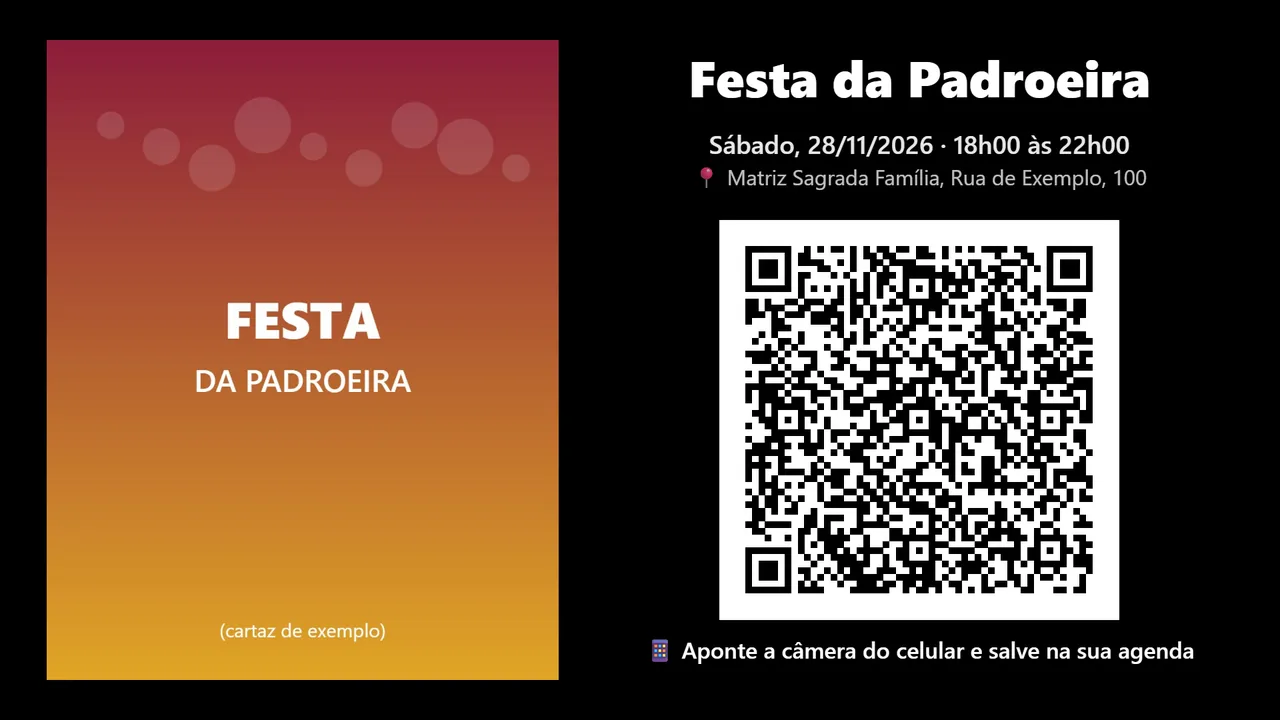
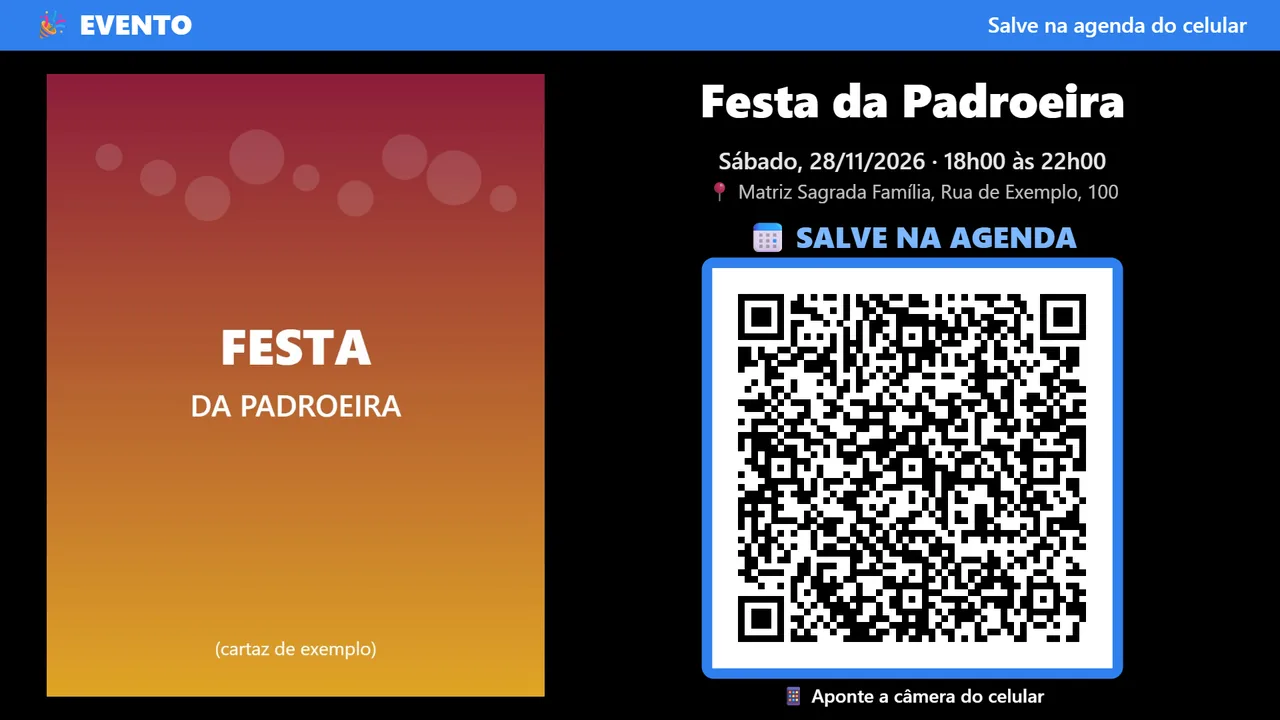
Nova versão do site

diff --git a/index.html b/index.html
@@ -48,23 +48,26 @@
       <div class="cartao"><h3>📄 Roteiro a partir do folheto</h3><p>Lê o folheto da Missa (PDF, Word ou texto) — ou baixa o da sua arquidiocese — e monta o roteiro inteiro, com as falas do padre e do povo.</p></div>
       <div class="cartao"><h3>🎵 Cantos com cifras</h3><p>Cantos por momento da Missa, refrão repetido sozinho, cantado ou rezado (Glória, Sequências, Ladainhas) e cifras para os músicos. No roteiro, 🔎 procura o canto pelo título, autor ou um pedaço da letra.</p></div>
       <div class="cartao"><h3>🎼 Partituras para os músicos</h3><p>A partitura de cada canto no tablet do músico, com a pauta do telão marcada. Do PDF de partituras do folheto do domingo, o programa separa as músicas e liga cada uma ao canto do roteiro.</p></div>
-      <div class="cartao"><h3>📖 Bíblia e liturgia</h3><p>Bíblia católica completa, com os 73 livros, já incluída; calendário litúrgico com santos e cor do tempo; as partes fixas da Missa com P. e T.; o nome do Papa e do Bispo no lugar do "N.".</p></div>
+      <div class="cartao"><h3>📖 Bíblia e liturgia</h3><p>Bíblia católica completa, com os 73 livros, já incluída; calendário litúrgico com santos e cor do tempo; as partes fixas da Missa com P. e T.; o nome do Papa e do Bispo no lugar do "N.". Nas Missas de semana, a Liturgia do dia monta o roteiro com as leituras e as orações próprias.</p></div>
       <div class="cartao"><h3>📱 Controle pelo celular</h3><p>Leia o QR code e passe os slides andando pela igreja. Os músicos veem a cifra ou a partitura acompanhando o telão, no tom do instrumento. E um tablet ou TV com navegador vira uma 📺 segunda tela, sem cabo.</p></div>
-      <div class="cartao"><h3>⏯ Feito para a hora da Missa</h3><p>Congelar o telão enquanto prepara a próxima parte, corrigir um slide sem projetar, Pix que entra sozinho no ofertório, aviso de carro ou criança, e atalhos de teclado para tudo.</p></div>
+      <div class="cartao"><h3>⏯ Feito para a hora da Missa</h3><p>Congelar o telão enquanto prepara a próxima parte, corrigir um slide sem projetar, Pix que entra sozinho no ofertório, aviso de carro ou criança, ↺ recomeçar o canto com um clique, momento de silêncio depois da comunhão, banner ou cartaz no roteiro, e atalhos de teclado para tudo.</p></div>
       <div class="cartao"><h3>✨ Slides automáticos</h3><p>Para cada slide, o programa calcula a letra, as linhas e os espaços para ocupar bem o telão — no máximo 6 linhas, divididas no fim da frase. Enquanto você edita, a prévia mostra o slide como vai ficar.</p></div>
       <div class="cartao"><h3>📿 Terço no telão</h3><p>O terço inteiro pronto, com os mistérios do dia: Nossa Senhora num canto e o terço desenhado no outro, preenchendo conta por conta. E versões com outros textos, como o terço pelos Filhos ou o Vocacional.</p></div>
       <div class="cartao"><h3>🎨 Telão do seu jeito</h3><p>Temas (inclusive pela cor do tempo litúrgico), perfis para cada operador, brasão e padroeiro nos cantos da tela.</p></div>
       <div class="cartao"><h3>📷 Câmeras e joysticks</h3><p>Câmera ao vivo no telão e câmeras PTZ com posições prontas — pelo computador, pelo celular ou por um joystick USB.</p></div>
       <div class="cartao"><h3>📡 Transmissão</h3><p>Faixa com as letras para o OBS (NDI), por cima da câmera da transmissão — inclusive o QR code do Pix da paróquia.</p></div>
-      <div class="cartao"><h3>☁ Vários computadores</h3><p>Opcionalmente, guarda tudo no Google Drive da própria paróquia para usar na Matriz e nas capelas.</p></div>
-      <div class="cartao"><h3>🎉 Eventos da paróquia</h3><p>Festas, retiros e cursos com cartaz e QR code, que põe o evento na agenda do celular. "Apresentar eventos" passa os cartazes sozinho, com música, e pode se repetir em grupo com um vídeo antes da Missa.</p></div>
+      <div class="cartao"><h3>☁ Vários computadores</h3><p>Opcionalmente, guarda tudo no Google Drive da própria paróquia para usar na Matriz e nas capelas, inclusive os vídeos e áudios: o que falta num computador aparece para baixar, com prévia sem baixar. O botão ☁ Atualizar busca na hora o que os outros mudaram.</p></div>
+      <div class="cartao"><h3>🎉 Eventos da paróquia</h3><p>Festas, retiros e cursos com cartaz e QR code, que põe o evento na agenda do celular (novena: um compromisso por dia). "Apresentar eventos" passa os cartazes sozinho, com música; com "Todos os eventos por vir", o novo entra e o que passou sai.</p></div>
+      <div class="cartao"><h3>💝 Campanhas de arrecadação</h3><p>A arte da campanha, o QR code do Pix dela e a meta em barra, termômetro, círculo, tijolos ou coração. Vêm da Secretaria MiguelAngelus pela nuvem; a pausada ou encerrada sai sozinha, e a encerrada pode deixar um "Muito obrigado!".</p></div>
+      <div class="cartao"><h3>📢 Avisos com eventos e campanhas</h3><p>Os avisos de cada Missa entram sozinhos no roteiro. O aviso de um evento ou de uma campanha vira o slide pronto, com o QR, na mesma ordem da folha que o leitor tem no ambão: é só ir passando.</p></div>
+      <div class="cartao"><h3>🎬 Antes da Missa</h3><p>Um vídeo de boas-vindas para cada igreja abre sozinho os roteiros novos. O vídeo, os eventos e as campanhas podem se repetir em grupo até a Missa começar, e um clique põe a apresentação em todos os roteiros do dia ou da semana.</p></div>
     </div>
   </section>
 
   <section class="texto centro">
     <h2 style="margin-top:0">🗂 Novo: Secretaria MiguelAngelus</h2>
     <p>Um programa gratuito para a <b>secretaria paroquial</b>: agenda, avisos, marcações de batizados e casamentos, intenções de
-      Missa e eventos com QR code. Os avisos e os eventos chegam sozinhos ao telão; os dados das pessoas ficam na secretaria.</p>
+      Missa, eventos com QR code e campanhas de arrecadação. Os avisos, os eventos e as campanhas chegam sozinhos ao telão; os dados das pessoas ficam na secretaria.</p>
     <div class="botoes" style="justify-content:center">
       <a class="baixar" href="secretaria.html">Conhecer a Secretaria</a>
     </div>
@@ -86,6 +89,10 @@
     <div class="galeria">
       <figure><img src="img/ajustes_joystick.webp" alt="Configuração do joystick" loading="lazy"><figcaption>🎮 Joystick para as câmeras PTZ: o botão apertado acende no desenho.</figcaption></figure>
       <figure><img src="img/agenda.webp" alt="Agenda da paróquia" loading="lazy"><figcaption>📅 Agenda: as celebrações da semana viram roteiros prontos.</figcaption></figure>
+    </div>
+    <div class="galeria">
+      <figure><img src="img/sec_evento.webp" alt="Slide de um evento com o cartaz e o QR code da agenda" loading="lazy"><figcaption>🎉 Evento: faixa azul e o QR que salva na agenda do celular.</figcaption></figure>
+      <figure><img src="img/telao_campanha.webp" alt="Slide de uma campanha com a arte, o termômetro da meta e o QR code do Pix" loading="lazy"><figcaption>💝 Campanha: faixa dourada, a meta e o QR do Pix — os dois não se confundem.</figcaption></figure>
     </div>
   </section>
 

diff --git a/secretaria.html b/secretaria.html
@@ -27,7 +27,7 @@
     <div>
       <h1>Secretaria MiguelAngelus</h1>
       <p>Um programa <b>gratuito</b> para a <b>secretaria paroquial</b>: a agenda das celebrações, os avisos, as marcações de
-        batizados e casamentos, as intenções de Missa e os eventos da paróquia. O que é para o telão chega sozinho ao
+        batizados e casamentos, as intenções de Missa, os eventos e as campanhas de arrecadação da paróquia. O que é para o telão chega sozinho ao
         MiguelAngelus da projeção, pela nuvem da própria paróquia.</p>
       <div class="botoes">
         <a class="baixar" href="https://github.com/dobylucky78-droid/secretaria-miguelangelus/releases/latest/download/Instalar-Secretaria-MiguelAngelus.exe">⬇ Baixar a Secretaria para Windows</a>
@@ -44,10 +44,11 @@
     <h2 class="secao">O que ela faz</h2>
     <div class="cartoes">
       <div class="cartao"><h3>📅 Agenda da paróquia</h3><p>A matriz e as capelas, as celebrações de toda semana e as do dia. É a mesma Agenda do MiguelAngelus: o que a secretaria muda aparece na projeção.</p></div>
-      <div class="cartao"><h3>📢 Avisos paroquiais</h3><p>Cada aviso com data de início e de fim, para uma, várias ou todas as comunidades. Para cada Missa, a folha A4 para ler no ambão e as imagens Full HD para o Holyrics.</p></div>
+      <div class="cartao"><h3>📢 Avisos paroquiais</h3><p>Cada aviso com data de início e de fim, para uma, várias ou todas as comunidades. Para cada Missa, a folha A4 para ler no ambão e as imagens Full HD para o Holyrics. O aviso pode ser de um <b>evento</b> ou de uma <b>campanha</b>: no telão entra o slide pronto dele, na mesma ordem da folha.</p></div>
       <div class="cartao"><h3>📒 Marcações</h3><p>Batizados, casamentos, 15 anos, 7º dia, crismas, 1ª comunhão e bênçãos, por igreja. Dia, semana e mês, busca, aviso de choque de horário e lista para imprimir.</p></div>
       <div class="cartao"><h3>🕯 Intenções de Missa</h3><p>Por celebração, agrupadas por tipo. "A pedido de" é lido na Missa; quem pediu e fez a oferta fica só na secretaria. Folha para o ambão, sem valores, e relatório de ofertas.</p></div>
-      <div class="cartao"><h3>🎉 Eventos com QR code</h3><p>Festas, retiros e cursos com cartaz. O QR code põe o evento na agenda do celular, sem internet. Sai a imagem para o telão e o cartaz A4 para o mural.</p></div>
+      <div class="cartao"><h3>🎉 Eventos com QR code</h3><p>Festas, retiros e cursos com cartaz. O QR code põe o evento na agenda do celular, sem internet. Novena ou tríduo: "todos os dias, no mesmo horário" vira um compromisso por dia. Sai a imagem para o telão e o cartaz A4 para o mural.</p></div>
+      <div class="cartao"><h3>💝 Campanhas de arrecadação</h3><p>Reforma, festa, obra social: a arte feita no Canva, o QR code do Pix da campanha e quanto já foi arrecadado, em barra, termômetro, círculo, tijolos ou coração. O Pix fica protegido por senha. Pausar, encerrar e um slide de agradecimento no fim.</p></div>
       <div class="cartao"><h3>☁ Uma ou várias secretarias</h3><p>Com o Google Drive da paróquia, duas secretarias (ou a matriz e uma capela) trabalham juntas. Se as duas mexem no mesmo item, o programa pergunta antes de salvar.</p></div>
     </div>
   </section>
@@ -60,21 +61,28 @@
       <figure><img src="img/sec_intencoes.webp" alt="Intenções de uma Missa" loading="lazy"><figcaption>🕯 As intenções de uma Missa, prontas para a folha do ambão.</figcaption></figure>
       <figure><img src="img/sec_evento.webp" alt="Imagem de um evento com o cartaz e o QR code" loading="lazy"><figcaption>🎉 O evento no telão: o cartaz e o QR code para a agenda do celular.</figcaption></figure>
       <figure><img src="img/sec_avisos.webp" alt="Avisos de uma celebração" loading="lazy"><figcaption>📢 Os avisos que valem em cada Missa.</figcaption></figure>
+      <figure><img src="img/sec_campanhas.webp" alt="Cadastro de uma campanha com a arte, a meta e o QR code do Pix" loading="lazy"><figcaption>💝 A campanha: a arte, a meta, o mostrador e o Pix protegido.</figcaption></figure>
+      <figure><img src="img/telao_campanha.webp" alt="Slide de uma campanha com a arte, o termômetro da meta e o QR code do Pix" loading="lazy"><figcaption>💝 A campanha no telão: faixa dourada e "Doe pelo Pix", para não confundir com o QR do evento.</figcaption></figure>
+      <figure><img src="img/sec_aviso_tipo.webp" alt="Aviso do tipo campanha ligado a uma campanha cadastrada" loading="lazy"><figcaption>📢 Aviso de campanha: no telão, no lugar do texto, entra o slide da campanha.</figcaption></figure>
+      <figure><img src="img/telao_campanha2.webp" alt="Slide de uma campanha com o coração enchendo, só com o percentual" loading="lazy"><figcaption>❤ Outro mostrador: o coração enchendo, só com o percentual.</figcaption></figure>
     </div>
   </section>
 
   <section class="texto">
-    <h2 style="margin-top:0">🎉 Os eventos no MiguelAngelus</h2>
-    <p>Os eventos cadastrados na secretaria aparecem na aba <b>Eventos</b> do MiguelAngelus (a partir da versão 1.9). No roteiro,
-      <b>Apresentar eventos</b> passa os cartazes sozinho, com o tempo de cada um, e pode ter uma música de fundo. Antes da
-      Missa, um vídeo da paróquia e a apresentação dos eventos podem se repetir em grupo, sem ninguém mexer no computador.</p>
+    <h2 style="margin-top:0">🎉 Eventos e 💝 campanhas no MiguelAngelus</h2>
+    <p>Os eventos cadastrados na secretaria aparecem na aba <b>Eventos</b> do MiguelAngelus. No roteiro,
+      <b>Apresentar eventos</b> passa os cartazes sozinho, com o tempo de cada um, e pode ter uma música de fundo; com
+      "Todos os eventos por vir", o evento novo entra e o que passou sai sem ninguém mexer.</p>
+    <p>As campanhas entram no item <b>💝 Campanhas</b>, logo depois dos Avisos: a pausada ou encerrada sai sozinha, e a encerrada
+      pode deixar um "Muito obrigado!" com o resultado. Antes da Missa, o vídeo de boas-vindas da igreja, os eventos e as
+      campanhas podem se repetir em grupo. Só a secretaria atualiza o andamento; a projeção só mostra.</p>
   </section>
 
   <section class="texto">
     <h2 style="margin-top:0">🔒 Os dados das pessoas ficam na secretaria</h2>
     <p>Nomes, telefones, marcações e ofertas ficam <b>no computador da secretaria</b> e, se a paróquia ligar a nuvem, no
       <b>Google Drive da própria paróquia</b>. Eles <b>não vão</b> para o MiguelAngelus da projeção, para o telão, para o site nem
-      para nós: o MiguelAngelus recebe só a Agenda, os avisos e os eventos. A folha do ambão sai só com o que é lido na Missa.
+      para nós: o MiguelAngelus recebe só a Agenda, os avisos, os eventos e as campanhas. A folha do ambão sai só com o que é lido na Missa.
       Veja a <a href="privacidade.html#secretaria">política de privacidade</a>.</p>
   </section>
 

diff --git a/privacidade.html b/privacidade.html
@@ -16,7 +16,7 @@
 
 <main><div class="texto">
   <h1>Política de privacidade</h1>
-  <p class="sutil">Última atualização: 16 de novembro de 2026</p>
+  <p class="sutil">Última atualização: 18 de novembro de 2026</p>
 
   <p>O <b>MiguelAngelus</b> é um aplicativo gratuito para Windows, mantido pela PASCOM da Paróquia São José Operário
     (Rio de Janeiro), usado para projetar a Missa no telão. Esta política explica quais dados o aplicativo usa e o que
@@ -83,6 +83,24 @@
   </ul>
   <p>Esses arquivos ficam <b>no Drive da própria paróquia</b>; não são enviados a nós nem a terceiros, nem usados para publicidade
     ou para treinar inteligência artificial.</p>
+
+  <h2 id="secretaria">2c. Secretaria MiguelAngelus</h2>
+  <p>A <b>Secretaria MiguelAngelus</b> é o programa da mesma equipe para a secretaria paroquial. Ela guarda dados de pessoas
+    (nomes e telefones das marcações de batizados, casamentos e 7º dia, quem pediu as intenções de Missa e as ofertas)
+    <b>só no computador da secretaria</b> e, se a paróquia ligar a nuvem, no <b>Google Drive da própria paróquia</b>, com o mesmo
+    acesso mínimo (<code>drive.file</code>) descrito acima, para duas secretarias trabalharem juntas.</p>
+  <ul>
+    <li>Para o MiguelAngelus da projeção (e daí para o telão) vão <b>só</b> a Agenda das celebrações, os avisos, os eventos e as
+      campanhas de arrecadação (título, descrição, arte, o QR code e a chave Pix <b>da campanha</b> e o andamento da meta).
+      Marcações, telefones, intenções com o nome de quem pediu e ofertas <b>nunca</b> vão para a projeção, para o telão, para o site
+      nem para nós.</li>
+    <li>A folha para ler no ambão sai só com o que é lido na Missa (sem telefones e sem valores).</li>
+    <li>(Em teste, só se a paróquia ligar) <b>Agenda da secretaria</b>: com a conta do Google da própria secretaria, o programa usa a
+      <b>API do Google Agenda</b> para listar as agendas dessa conta e ler, criar, mudar e apagar os compromissos da agenda escolhida.
+      Esses dados não são enviados a nós nem a terceiros, nem usados para publicidade ou para treinar inteligência artificial.</li>
+    <li>Para tirar os dados de uma pessoa, a secretaria apaga a marcação ou a intenção; o programa leva a remoção aos outros
+      computadores ligados à mesma nuvem.</li>
+  </ul>
 
   <h2>3. Acesso à internet</h2>
   <p>Além da sincronização opcional, o aplicativo acessa a internet apenas para:</p>
